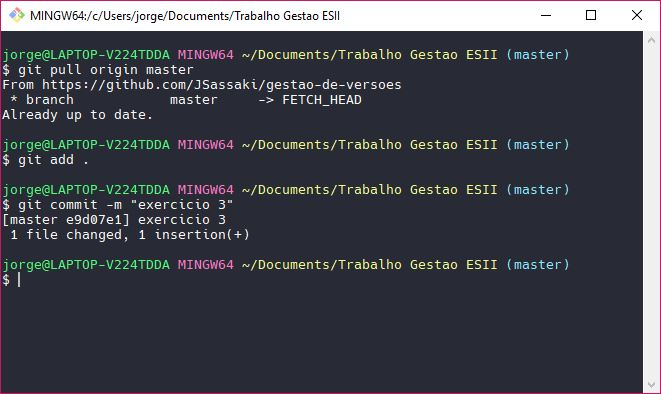
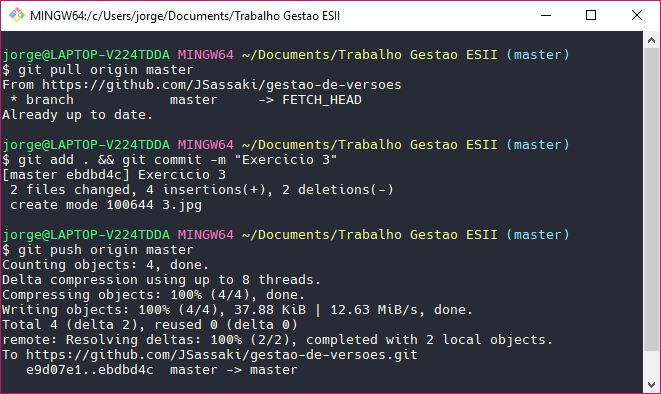
Exercicio 4

Changed region(s): [[0.0, 0.3959, 0.8775, 0.9746], [0.9682, 0.1218, 0.9985, 0.9137]]

diff --git a/A.java b/A.java
@@ -26,5 +26,9 @@ class A {
   public void setA3(String A3){
     this.A3 = A3;
   }
+
+  public float soma(){
+    return this.A1 + this.A2;
+  }
   
 }

diff --git a/trabalho-engenharia-gestao.md b/trabalho-engenharia-gestao.md
@@ -7,9 +7,13 @@
 * Integrado com Eclipse, Visual Studio, Xcode, Atom.io e outros
 
 ## 2. Primeiro commit
-git push origin master
+
 ![alt text][2]
 
 ## 3. Adicionando String A3
 
+![alt text][3]
+
+
 [2]: 2.jpg "Segundo Exercício"
+[3]: 3.jpg "Adicionando String A3"
